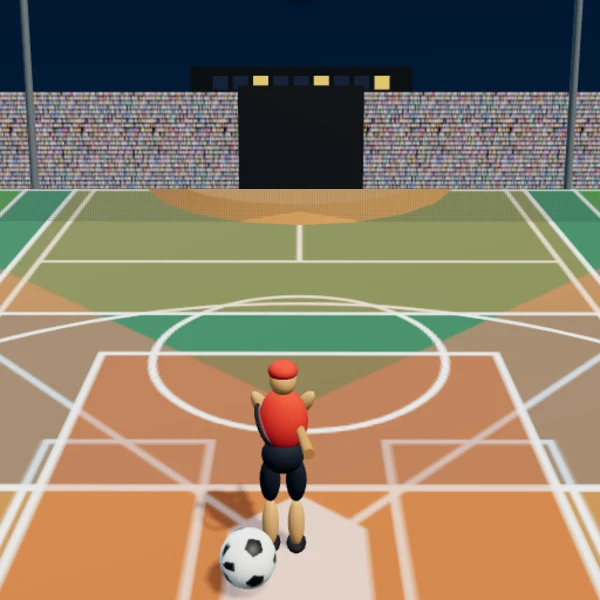
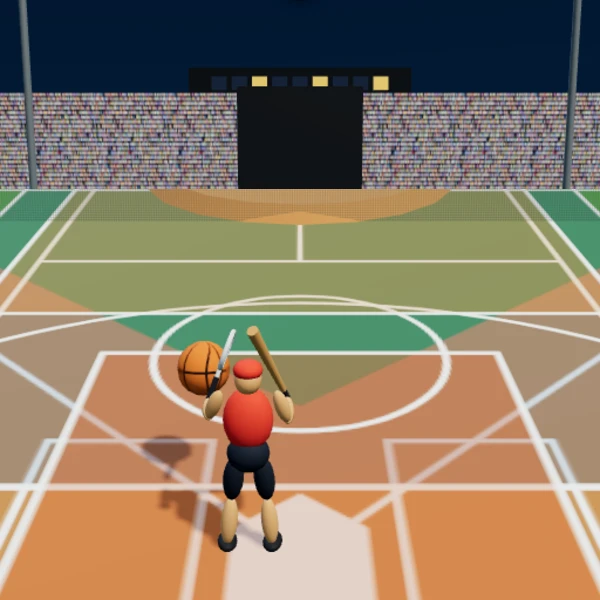
同時球技5種: 持ちものの向きと振りの姿勢を直す
右手にバット、左手にラケット。持ちものの向きは腕の曲げ具合から切り離し、
手首の関節で体（腰）から見た角度へ合わせ直すようにした。
これまでは両腕とも体の前で交差していて、バットが胴を突き抜けていた。

- 構えは両腕を体の外へ開き、バットは右肩の上、ラケットは左前へ
- 野球は腰を回してバットを水平に振り、左のラケットは引いて避ける
- テニスは逆回りでラケットを払い、バットは肩へ担いだまま
- サッカーは反り返りを抑え、軸足を伸ばして蹴る
- バレーは振りかぶりと打ち下ろしを分け、跳ぶ頂点で当たるようにした
- ラケットが見えにくかったので、枠を明るく太く、ガットも濃くした

制作中の固定リンクも doji5-20260920120030 に更新。

diff --git a/games/_doji5/scene.js b/games/_doji5/scene.js
@@ -219,25 +219,32 @@ var ZDoji5Scene = (function () {
       blob(sh, .062, .16, .062, skin, -.14);
       var el = part(sh, 'elbow' + tag, 0, -.3, 0);
       blob(el, .055, .15, .055, skin, -.13);
-      part(el, 'hand' + tag, 0, -.28, 0);
+      var hand = part(el, 'hand' + tag, 0, -.28, 0);
+      /* 手首。持ちものの向きは腕の角度と切り離して決める */
+      part(hand, 'wrist' + tag, 0, 0, 0);
       var hip = part(hips, 'hip' + tag, side * .11, -.06, 0);
       blob(hip, .088, .22, .09, pants, -.2);
       var kn = part(hip, 'knee' + tag, 0, -.42, 0);
       blob(kn, .072, .21, .075, skin, -.2);
       blob(kn, .085, .05, .15, shoe, -.42, .06);
     });
-    if (opt.bat) {                                            /* 右手のバット */
-      var bat = new T.Mesh(new T.CylinderGeometry(.048, .022, .92, 10), mat('#b9834a', .6));
-      bat.position.y = .42; bat.castShadow = true; parts.handR.add(bat);
+    if (opt.bat) {                                            /* 右手はバット。手首から上へ伸ばす */
+      var bat = new T.Mesh(new T.CylinderGeometry(.05, .023, .92, 12), mat('#c49055', .55));
+      bat.position.y = .46; bat.castShadow = true;
+      var batGrip = new T.Mesh(CYL, mat('#23272f', .85));
+      batGrip.scale.set(.026, .17, .026); batGrip.position.y = .08;
+      parts.wristR.add(bat, batGrip);
     }
-    if (opt.racket) {                                         /* 左手のラケット */
-      var frame = new T.Mesh(new T.TorusGeometry(.17, .016, 6, 20), mat('#2b3340', .5, .3));
-      frame.position.y = .43; frame.rotation.y = Math.PI / 2; frame.castShadow = true;
-      var gut = new T.Mesh(new T.CircleGeometry(.158, 18), new T.MeshBasicMaterial({ color: '#e9ecef', transparent: true, opacity: .32, side: T.DoubleSide }));
-      gut.position.y = .43; gut.rotation.y = Math.PI / 2;
-      var grip = new T.Mesh(CYL, mat('#20242c', .8));
-      grip.scale.set(.022, .26, .022); grip.position.y = .14;
-      parts.handL.add(frame, gut, grip);
+    if (opt.racket) {                                         /* 左手はラケット。面は体の横を向く */
+      var frame = new T.Mesh(new T.TorusGeometry(.165, .023, 8, 22), mat('#e8edf3', .4, .25));
+      frame.position.y = .45; frame.rotation.y = Math.PI / 2; frame.castShadow = true;
+      var gut = new T.Mesh(new T.CircleGeometry(.152, 20), new T.MeshBasicMaterial({ color: '#f4f7fa', transparent: true, opacity: .42, side: T.DoubleSide }));
+      gut.position.y = .45; gut.rotation.y = Math.PI / 2;
+      var throat = new T.Mesh(CYL, mat('#e8edf3', .4, .25));
+      throat.scale.set(.02, .12, .02); throat.position.y = .26;
+      var grip = new T.Mesh(CYL, mat('#23272f', .85));
+      grip.scale.set(.025, .2, .025); grip.position.y = .1;
+      parts.wristL.add(frame, gut, throat, grip);
     }
     if (opt.glove) {
       var glove = new T.Mesh(SPHERE, mat('#8a5a2f', .8));
@@ -498,48 +505,87 @@ var ZDoji5Scene = (function () {
     return { x: (v.x * .5 + .5) * 540, y: (.5 - v.y * .5) * this.logicalH, z: v.z };
   };
 
-  /* 立ち姿にしてから、動作ぶんだけ足す */
+  /* 立ち姿にしてから、動作ぶんだけ足す。
+     持ちものの角度（BAT/RKT）は腕の曲げ具合とは別に決め、最後に手首で辻褄を合わせる。
+     0 で真上、＋で前へ倒す、−で後ろへ倒す。こうすると腕をどう動かしても、
+     バットが胴を突き抜けたり、ラケットが体の中へ入ったりしない。 */
+  var BAT = -.45, RKT = .35;                                   /* 構えたときの角度 */
+  var QA = null, QB = null, EU = null;
+  /* 持ちものを、腕の形に関わらず体（腰）から見た向きへ合わせる。
+     angleX は 0 で真上・＋で前へ倒す、leanZ は体の外へ開く角度。 */
+  function aimItem(hips, hand, wrist, angleX, leanZ) {
+    if (!QA) { QA = new T.Quaternion(); QB = new T.Quaternion(); EU = new T.Euler(); }
+    EU.set(angleX, 0, leanZ, 'YXZ');
+    QA.setFromEuler(EU);
+    QA.premultiply(hips.getWorldQuaternion(QB));
+    wrist.quaternion.copy(hand.getWorldQuaternion(QB).invert()).multiply(QA);
+  }
   Scene.prototype.pose = function (a, act, p, t) {
     var P = a.parts;
     a.root.position.y = 0;
     a.root.rotation.y = 0;
     P.hips.rotation.set(0, 0, 0);
-    P.torso.rotation.set(.14 + Math.sin(t * 3) * .03, 0, 0);
-    P.shoulderR.rotation.set(-.55, 0, .5); P.elbowR.rotation.set(-1.15, 0, 0);
-    P.shoulderL.rotation.set(-.4, 0, -.45); P.elbowL.rotation.set(-1.05, 0, 0);
-    P.hipL.rotation.set(-.16, 0, 0); P.kneeL.rotation.set(.26, 0, 0);
-    P.hipR.rotation.set(-.16, 0, 0); P.kneeR.rotation.set(.26, 0, 0);
-    if (!act) return;
-    var e = Math.max(0, Math.min(1, p));
-    var s = 1 - Math.pow(1 - Math.min(1, e / .42), 3);        /* 振り抜き */
-    var w = e < .7 ? 1 : 1 - (e - .7) / .3;                    /* 終わりは立ち姿へ戻す */
-    var k = s * w;
-    if (act === 'yakyu') {
-      P.hips.rotation.y = -2.7 * k + .7 * w;
-      P.torso.rotation.y = -.8 * k + .3 * w;
-      P.shoulderR.rotation.x += 1.0 * k; P.shoulderR.rotation.z += -1.0 * k;
-      P.elbowR.rotation.x += 1.0 * k;
-      P.hipR.rotation.x += -.3 * k;
-    } else if (act === 'tennis') {
-      P.hips.rotation.y = 2.4 * k - .6 * w;
-      P.shoulderL.rotation.z += 1.5 * k; P.shoulderL.rotation.x += -.9 * k;
-      P.elbowL.rotation.x += .9 * k;
-    } else if (act === 'soccer') {
-      P.hipR.rotation.x += -2.2 * k; P.kneeR.rotation.x += -1.1 * k;
-      P.torso.rotation.x += .35 * k;
-      P.shoulderL.rotation.x += -.9 * k; P.shoulderR.rotation.x += .5 * k;
-      a.root.position.y = Math.sin(Math.PI * e) * .06 * w;
-    } else if (act === 'basket') {
-      a.root.position.y = Math.sin(Math.PI * Math.min(1, e / .8)) * .42 * w;
-      P.shoulderR.rotation.x += -2.3 * k; P.shoulderL.rotation.x += -2.3 * k;
-      P.elbowR.rotation.x += 1.0 * k; P.elbowL.rotation.x += 1.0 * k;
-      P.hipR.rotation.x += .3 * k; P.hipL.rotation.x += .3 * k;
-    } else if (act === 'volley') {
-      a.root.position.y = Math.sin(Math.PI * Math.min(1, e / .85)) * .8 * w;
-      P.shoulderR.rotation.x += -3.3 + 3.9 * s * w + (1 - w) * 3.3;
-      P.elbowR.rotation.x += .7 * k;
-      P.torso.rotation.x += -.3 * w + .55 * k;
-      P.hipL.rotation.x += -.5 * k;
+    P.torso.rotation.set(.12 + Math.sin(t * 3) * .03, 0, 0);
+    /* 右腕はバットを右肩の上へ、左腕はラケットを前へ。腕は体の外側へ開く */
+    P.shoulderR.rotation.set(-.30, 0, -.30); P.elbowR.rotation.set(-1.70, 0, 0);
+    P.shoulderL.rotation.set(-.45, 0, .34); P.elbowL.rotation.set(-1.30, 0, 0);
+    P.hipL.rotation.set(-.16, 0, .1); P.kneeL.rotation.set(.26, 0, 0);
+    P.hipR.rotation.set(-.16, 0, -.1); P.kneeR.rotation.set(.26, 0, 0);
+    var bat = BAT, racket = RKT, batLean = -.3, racketLean = .35;
+    if (act) {
+      var e = Math.max(0, Math.min(1, p));
+      var s = 1 - Math.pow(1 - Math.min(1, e / .42), 3);      /* 振り抜き */
+      var w = e < .7 ? 1 : 1 - (e - .7) / .3;                  /* 終わりは立ち姿へ戻す */
+      var k = s * w;
+      if (act === 'yakyu') {                                   /* 腰を回してバットを水平に振る */
+        P.hips.rotation.y = -2.6 * k + .65 * w;
+        P.torso.rotation.y = -.7 * k + .25 * w;
+        P.shoulderR.rotation.x += -.5 * k; P.shoulderR.rotation.z += -.7 * k;
+        P.elbowR.rotation.x += 1.3 * k;
+        P.hipR.rotation.x += -.3 * k;
+        P.shoulderL.rotation.x += .55 * k; P.shoulderL.rotation.z += -.2 * k;
+        P.elbowL.rotation.x += -.35 * k;                       /* ラケットは邪魔にならぬよう引く */
+        bat = BAT - .35 * w + 2.15 * k; batLean = -.3 + .25 * k;
+        racket = RKT - .8 * k;
+      } else if (act === 'tennis') {                           /* 逆回りでラケットを払う */
+        P.hips.rotation.y = 2.3 * k - .55 * w;
+        P.torso.rotation.y = .6 * k - .2 * w;
+        P.shoulderL.rotation.x += -.4 * k; P.shoulderL.rotation.z += .7 * k;
+        P.elbowL.rotation.x += 1.0 * k;
+        P.shoulderR.rotation.x += .5 * k; P.shoulderR.rotation.z += .2 * k;
+        P.elbowR.rotation.x += -.3 * k;                        /* バットは肩へ担いだまま */
+        racket = RKT - .9 * w + 2.1 * k; racketLean = .35 - .25 * k;
+        bat = BAT - .45 * k;
+      } else if (act === 'soccer') {                           /* 右足を振り出す。持ちものは構えたまま */
+        P.hipR.rotation.x += -1.9 * k; P.kneeR.rotation.x += -.85 * k;
+        P.hipL.rotation.x += .25 * k; P.kneeL.rotation.x += .2 * k;
+        P.torso.rotation.x += -.22 * k;                        /* 蹴り足の反対へ少し反る */
+        P.shoulderL.rotation.x += -.9 * k; P.shoulderR.rotation.x += .5 * k;
+        a.root.position.y = Math.sin(Math.PI * e) * .05 * w;
+      } else if (act === 'basket') {                           /* 跳んで両手で押し出す */
+        a.root.position.y = Math.sin(Math.PI * Math.min(1, e / .8)) * .42 * w;
+        P.shoulderR.rotation.x += -2.3 * k; P.shoulderL.rotation.x += -2.3 * k;
+        P.elbowR.rotation.x += 1.2 * k; P.elbowL.rotation.x += 1.2 * k;
+        P.hipR.rotation.x += .3 * k; P.hipL.rotation.x += .3 * k;
+        bat = BAT + .35 * k; racket = RKT - .3 * k;            /* 手が上がるぶん立てる */
+        batLean = -.3 + .12 * k; racketLean = .35 - .15 * k;
+      } else if (act === 'volley') {                           /* 跳んで、振りかぶってから打ち下ろす */
+        var up = Math.min(1, e / .35) * w, hit = Math.max(0, Math.min(1, (e - .35) / .3)) * w;
+        a.root.position.y = Math.sin(Math.PI * Math.min(1, e / .9)) * .8 * w;
+        P.shoulderR.rotation.x += -3.3 * up + 4.0 * hit;
+        P.elbowR.rotation.x += 1.0 * up - .6 * hit;
+        P.shoulderL.rotation.x += -1.1 * up + .4 * hit;
+        P.torso.rotation.x += -.35 * up + .7 * hit;
+        P.hipL.rotation.x += -.5 * hit;
+        bat = BAT - 1.0 * up + 2.9 * hit; batLean = -.3 + .2 * hit;
+        racket = RKT + .5 * up - .3 * hit;
+      }
+    }
+    /* 腕の形が決まってから、持ちものの向きだけ入れ直す */
+    if (P.wristR || P.wristL) {
+      a.root.updateMatrixWorld(true);
+      if (P.wristR) aimItem(P.hips, P.handR, P.wristR, bat, batLean);
+      if (P.wristL) aimItem(P.hips, P.handL, P.wristL, racket, racketLean);
     }
   };
 

diff --git a/preview/scene.js b/preview/scene.js
@@ -219,25 +219,32 @@ var ZDoji5Scene = (function () {
       blob(sh, .062, .16, .062, skin, -.14);
       var el = part(sh, 'elbow' + tag, 0, -.3, 0);
       blob(el, .055, .15, .055, skin, -.13);
-      part(el, 'hand' + tag, 0, -.28, 0);
+      var hand = part(el, 'hand' + tag, 0, -.28, 0);
+      /* 手首。持ちものの向きは腕の角度と切り離して決める */
+      part(hand, 'wrist' + tag, 0, 0, 0);
       var hip = part(hips, 'hip' + tag, side * .11, -.06, 0);
       blob(hip, .088, .22, .09, pants, -.2);
       var kn = part(hip, 'knee' + tag, 0, -.42, 0);
       blob(kn, .072, .21, .075, skin, -.2);
       blob(kn, .085, .05, .15, shoe, -.42, .06);
     });
-    if (opt.bat) {                                            /* 右手のバット */
-      var bat = new T.Mesh(new T.CylinderGeometry(.048, .022, .92, 10), mat('#b9834a', .6));
-      bat.position.y = .42; bat.castShadow = true; parts.handR.add(bat);
+    if (opt.bat) {                                            /* 右手はバット。手首から上へ伸ばす */
+      var bat = new T.Mesh(new T.CylinderGeometry(.05, .023, .92, 12), mat('#c49055', .55));
+      bat.position.y = .46; bat.castShadow = true;
+      var batGrip = new T.Mesh(CYL, mat('#23272f', .85));
+      batGrip.scale.set(.026, .17, .026); batGrip.position.y = .08;
+      parts.wristR.add(bat, batGrip);
     }
-    if (opt.racket) {                                         /* 左手のラケット */
-      var frame = new T.Mesh(new T.TorusGeometry(.17, .016, 6, 20), mat('#2b3340', .5, .3));
-      frame.position.y = .43; frame.rotation.y = Math.PI / 2; frame.castShadow = true;
-      var gut = new T.Mesh(new T.CircleGeometry(.158, 18), new T.MeshBasicMaterial({ color: '#e9ecef', transparent: true, opacity: .32, side: T.DoubleSide }));
-      gut.position.y = .43; gut.rotation.y = Math.PI / 2;
-      var grip = new T.Mesh(CYL, mat('#20242c', .8));
-      grip.scale.set(.022, .26, .022); grip.position.y = .14;
-      parts.handL.add(frame, gut, grip);
+    if (opt.racket) {                                         /* 左手はラケット。面は体の横を向く */
+      var frame = new T.Mesh(new T.TorusGeometry(.165, .023, 8, 22), mat('#e8edf3', .4, .25));
+      frame.position.y = .45; frame.rotation.y = Math.PI / 2; frame.castShadow = true;
+      var gut = new T.Mesh(new T.CircleGeometry(.152, 20), new T.MeshBasicMaterial({ color: '#f4f7fa', transparent: true, opacity: .42, side: T.DoubleSide }));
+      gut.position.y = .45; gut.rotation.y = Math.PI / 2;
+      var throat = new T.Mesh(CYL, mat('#e8edf3', .4, .25));
+      throat.scale.set(.02, .12, .02); throat.position.y = .26;
+      var grip = new T.Mesh(CYL, mat('#23272f', .85));
+      grip.scale.set(.025, .2, .025); grip.position.y = .1;
+      parts.wristL.add(frame, gut, throat, grip);
     }
     if (opt.glove) {
       var glove = new T.Mesh(SPHERE, mat('#8a5a2f', .8));
@@ -498,48 +505,87 @@ var ZDoji5Scene = (function () {
     return { x: (v.x * .5 + .5) * 540, y: (.5 - v.y * .5) * this.logicalH, z: v.z };
   };
 
-  /* 立ち姿にしてから、動作ぶんだけ足す */
+  /* 立ち姿にしてから、動作ぶんだけ足す。
+     持ちものの角度（BAT/RKT）は腕の曲げ具合とは別に決め、最後に手首で辻褄を合わせる。
+     0 で真上、＋で前へ倒す、−で後ろへ倒す。こうすると腕をどう動かしても、
+     バットが胴を突き抜けたり、ラケットが体の中へ入ったりしない。 */
+  var BAT = -.45, RKT = .35;                                   /* 構えたときの角度 */
+  var QA = null, QB = null, EU = null;
+  /* 持ちものを、腕の形に関わらず体（腰）から見た向きへ合わせる。
+     angleX は 0 で真上・＋で前へ倒す、leanZ は体の外へ開く角度。 */
+  function aimItem(hips, hand, wrist, angleX, leanZ) {
+    if (!QA) { QA = new T.Quaternion(); QB = new T.Quaternion(); EU = new T.Euler(); }
+    EU.set(angleX, 0, leanZ, 'YXZ');
+    QA.setFromEuler(EU);
+    QA.premultiply(hips.getWorldQuaternion(QB));
+    wrist.quaternion.copy(hand.getWorldQuaternion(QB).invert()).multiply(QA);
+  }
   Scene.prototype.pose = function (a, act, p, t) {
     var P = a.parts;
     a.root.position.y = 0;
     a.root.rotation.y = 0;
     P.hips.rotation.set(0, 0, 0);
-    P.torso.rotation.set(.14 + Math.sin(t * 3) * .03, 0, 0);
-    P.shoulderR.rotation.set(-.55, 0, .5); P.elbowR.rotation.set(-1.15, 0, 0);
-    P.shoulderL.rotation.set(-.4, 0, -.45); P.elbowL.rotation.set(-1.05, 0, 0);
-    P.hipL.rotation.set(-.16, 0, 0); P.kneeL.rotation.set(.26, 0, 0);
-    P.hipR.rotation.set(-.16, 0, 0); P.kneeR.rotation.set(.26, 0, 0);
-    if (!act) return;
-    var e = Math.max(0, Math.min(1, p));
-    var s = 1 - Math.pow(1 - Math.min(1, e / .42), 3);        /* 振り抜き */
-    var w = e < .7 ? 1 : 1 - (e - .7) / .3;                    /* 終わりは立ち姿へ戻す */
-    var k = s * w;
-    if (act === 'yakyu') {
-      P.hips.rotation.y = -2.7 * k + .7 * w;
-      P.torso.rotation.y = -.8 * k + .3 * w;
-      P.shoulderR.rotation.x += 1.0 * k; P.shoulderR.rotation.z += -1.0 * k;
-      P.elbowR.rotation.x += 1.0 * k;
-      P.hipR.rotation.x += -.3 * k;
-    } else if (act === 'tennis') {
-      P.hips.rotation.y = 2.4 * k - .6 * w;
-      P.shoulderL.rotation.z += 1.5 * k; P.shoulderL.rotation.x += -.9 * k;
-      P.elbowL.rotation.x += .9 * k;
-    } else if (act === 'soccer') {
-      P.hipR.rotation.x += -2.2 * k; P.kneeR.rotation.x += -1.1 * k;
-      P.torso.rotation.x += .35 * k;
-      P.shoulderL.rotation.x += -.9 * k; P.shoulderR.rotation.x += .5 * k;
-      a.root.position.y = Math.sin(Math.PI * e) * .06 * w;
-    } else if (act === 'basket') {
-      a.root.position.y = Math.sin(Math.PI * Math.min(1, e / .8)) * .42 * w;
-      P.shoulderR.rotation.x += -2.3 * k; P.shoulderL.rotation.x += -2.3 * k;
-      P.elbowR.rotation.x += 1.0 * k; P.elbowL.rotation.x += 1.0 * k;
-      P.hipR.rotation.x += .3 * k; P.hipL.rotation.x += .3 * k;
-    } else if (act === 'volley') {
-      a.root.position.y = Math.sin(Math.PI * Math.min(1, e / .85)) * .8 * w;
-      P.shoulderR.rotation.x += -3.3 + 3.9 * s * w + (1 - w) * 3.3;
-      P.elbowR.rotation.x += .7 * k;
-      P.torso.rotation.x += -.3 * w + .55 * k;
-      P.hipL.rotation.x += -.5 * k;
+    P.torso.rotation.set(.12 + Math.sin(t * 3) * .03, 0, 0);
+    /* 右腕はバットを右肩の上へ、左腕はラケットを前へ。腕は体の外側へ開く */
+    P.shoulderR.rotation.set(-.30, 0, -.30); P.elbowR.rotation.set(-1.70, 0, 0);
+    P.shoulderL.rotation.set(-.45, 0, .34); P.elbowL.rotation.set(-1.30, 0, 0);
+    P.hipL.rotation.set(-.16, 0, .1); P.kneeL.rotation.set(.26, 0, 0);
+    P.hipR.rotation.set(-.16, 0, -.1); P.kneeR.rotation.set(.26, 0, 0);
+    var bat = BAT, racket = RKT, batLean = -.3, racketLean = .35;
+    if (act) {
+      var e = Math.max(0, Math.min(1, p));
+      var s = 1 - Math.pow(1 - Math.min(1, e / .42), 3);      /* 振り抜き */
+      var w = e < .7 ? 1 : 1 - (e - .7) / .3;                  /* 終わりは立ち姿へ戻す */
+      var k = s * w;
+      if (act === 'yakyu') {                                   /* 腰を回してバットを水平に振る */
+        P.hips.rotation.y = -2.6 * k + .65 * w;
+        P.torso.rotation.y = -.7 * k + .25 * w;
+        P.shoulderR.rotation.x += -.5 * k; P.shoulderR.rotation.z += -.7 * k;
+        P.elbowR.rotation.x += 1.3 * k;
+        P.hipR.rotation.x += -.3 * k;
+        P.shoulderL.rotation.x += .55 * k; P.shoulderL.rotation.z += -.2 * k;
+        P.elbowL.rotation.x += -.35 * k;                       /* ラケットは邪魔にならぬよう引く */
+        bat = BAT - .35 * w + 2.15 * k; batLean = -.3 + .25 * k;
+        racket = RKT - .8 * k;
+      } else if (act === 'tennis') {                           /* 逆回りでラケットを払う */
+        P.hips.rotation.y = 2.3 * k - .55 * w;
+        P.torso.rotation.y = .6 * k - .2 * w;
+        P.shoulderL.rotation.x += -.4 * k; P.shoulderL.rotation.z += .7 * k;
+        P.elbowL.rotation.x += 1.0 * k;
+        P.shoulderR.rotation.x += .5 * k; P.shoulderR.rotation.z += .2 * k;
+        P.elbowR.rotation.x += -.3 * k;                        /* バットは肩へ担いだまま */
+        racket = RKT - .9 * w + 2.1 * k; racketLean = .35 - .25 * k;
+        bat = BAT - .45 * k;
+      } else if (act === 'soccer') {                           /* 右足を振り出す。持ちものは構えたまま */
+        P.hipR.rotation.x += -1.9 * k; P.kneeR.rotation.x += -.85 * k;
+        P.hipL.rotation.x += .25 * k; P.kneeL.rotation.x += .2 * k;
+        P.torso.rotation.x += -.22 * k;                        /* 蹴り足の反対へ少し反る */
+        P.shoulderL.rotation.x += -.9 * k; P.shoulderR.rotation.x += .5 * k;
+        a.root.position.y = Math.sin(Math.PI * e) * .05 * w;
+      } else if (act === 'basket') {                           /* 跳んで両手で押し出す */
+        a.root.position.y = Math.sin(Math.PI * Math.min(1, e / .8)) * .42 * w;
+        P.shoulderR.rotation.x += -2.3 * k; P.shoulderL.rotation.x += -2.3 * k;
+        P.elbowR.rotation.x += 1.2 * k; P.elbowL.rotation.x += 1.2 * k;
+        P.hipR.rotation.x += .3 * k; P.hipL.rotation.x += .3 * k;
+        bat = BAT + .35 * k; racket = RKT - .3 * k;            /* 手が上がるぶん立てる */
+        batLean = -.3 + .12 * k; racketLean = .35 - .15 * k;
+      } else if (act === 'volley') {                           /* 跳んで、振りかぶってから打ち下ろす */
+        var up = Math.min(1, e / .35) * w, hit = Math.max(0, Math.min(1, (e - .35) / .3)) * w;
+        a.root.position.y = Math.sin(Math.PI * Math.min(1, e / .9)) * .8 * w;
+        P.shoulderR.rotation.x += -3.3 * up + 4.0 * hit;
+        P.elbowR.rotation.x += 1.0 * up - .6 * hit;
+        P.shoulderL.rotation.x += -1.1 * up + .4 * hit;
+        P.torso.rotation.x += -.35 * up + .7 * hit;
+        P.hipL.rotation.x += -.5 * hit;
+        bat = BAT - 1.0 * up + 2.9 * hit; batLean = -.3 + .2 * hit;
+        racket = RKT + .5 * up - .3 * hit;
+      }
+    }
+    /* 腕の形が決まってから、持ちものの向きだけ入れ直す */
+    if (P.wristR || P.wristL) {
+      a.root.updateMatrixWorld(true);
+      if (P.wristR) aimItem(P.hips, P.handR, P.wristR, bat, batLean);
+      if (P.wristL) aimItem(P.hips, P.handL, P.wristL, racket, racketLean);
     }
   };
 

diff --git a/preview/index.html b/preview/index.html
@@ -3,7 +3,7 @@
 <head>
 <meta charset="UTF-8">
 <meta name="robots" content="noindex,nofollow">
-<meta name="preview-version" content="doji5-20260920113900">
+<meta name="preview-version" content="doji5-20260920120030">
 <meta name="viewport" content="width=device-width, initial-scale=1, maximum-scale=1, user-scalable=no">
 <title>同時球技5種</title>
 <style>
@@ -27,12 +27,12 @@
   <button id="start" type="button">START</button>
   <button id="share-button" type="button" aria-label="Xでシェア" hidden></button>
 </div></div>
-<script src="../games/random-bowling/vendor/three.min.js?v=doji5-20260920113900"></script>
-<script src="./scene.js?v=doji5-20260920113900"></script>
-<script src="../games/share.js?v=doji5-20260920113900"></script>
-<script src="../games/result-actions.js?v=doji5-20260920113900"></script>
-<script src="../games/action-icons.js?v=doji5-20260920113900"></script>
-<script src="../games/pad.js?v=doji5-20260920113900"></script>   <!-- ジョイパッドと、絵の外のタップ -->
+<script src="../games/random-bowling/vendor/three.min.js?v=doji5-20260920120030"></script>
+<script src="./scene.js?v=doji5-20260920120030"></script>
+<script src="../games/share.js?v=doji5-20260920120030"></script>
+<script src="../games/result-actions.js?v=doji5-20260920120030"></script>
+<script src="../games/action-icons.js?v=doji5-20260920120030"></script>
+<script src="../games/pad.js?v=doji5-20260920120030"></script>   <!-- ジョイパッドと、絵の外のタップ -->
 <script>
 /* 同時球技5種。
    野球・サッカー・テニス・バスケ・バレーの球が、ぜんぶ同じ場所へ次々に飛んでくる。
@@ -562,10 +562,10 @@
 <script>
 if (document.head && /^(localhost|127\.0\.0\.1)$/.test(location.hostname) && !/[?&]recorder-cli=1(?:&|$)/.test(location.search)) {
   var recorderScript = document.createElement("script");
-  recorderScript.src = "../games/_tools/recorder-ui.js?v=doji5-20260920113900";
+  recorderScript.src = "../games/_tools/recorder-ui.js?v=doji5-20260920120030";
   document.head.appendChild(recorderScript);
 }
 </script>
-<script src="./auto-reload.js?v=doji5-20260920113900"></script>
+<script src="./auto-reload.js?v=doji5-20260920120030"></script>
 </body>
 </html>
